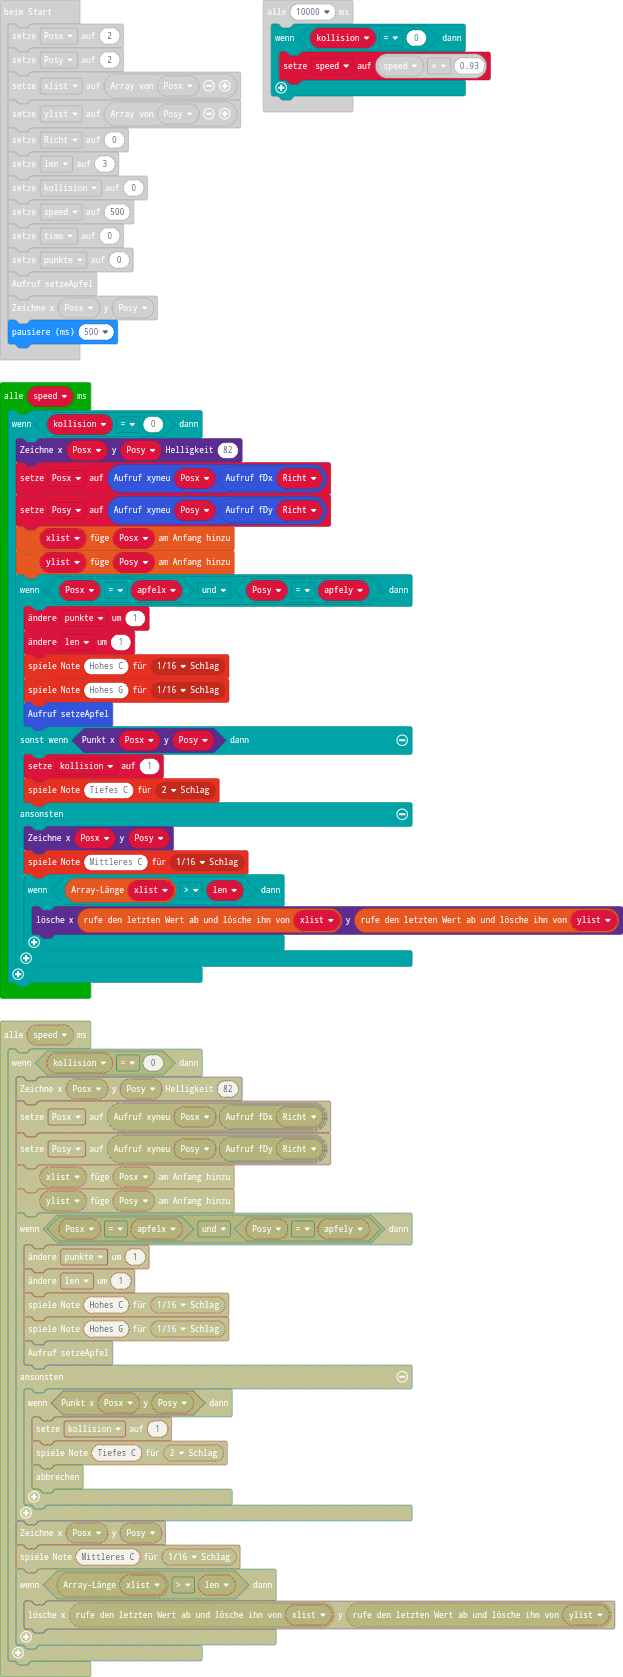
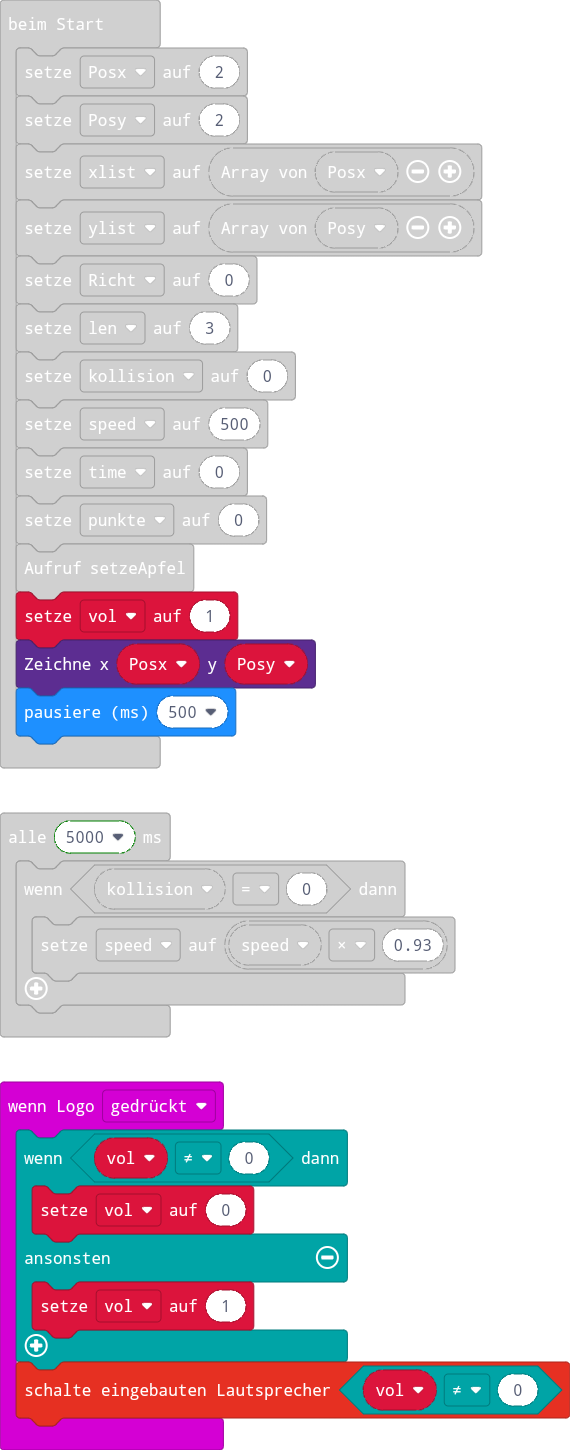
Aktualisiere main.blocks, main.ts

diff --git a/main.ts b/main.ts
@@ -1,3 +1,11 @@
+input.onLogoEvent(TouchButtonEvent.Pressed, function () {
+    if (vol != 0) {
+        vol = 0
+    } else {
+        vol = 1
+    }
+    music.setBuiltInSpeakerEnabled(vol != 0)
+})
 function setzeApfel () {
     while (true) {
         apfelx = randint(0, 4)
@@ -64,6 +72,7 @@ function xyneu (xyalt: number, Dxy: number) {
 let Erg = 0
 let apfely = 0
 let apfelx = 0
+let vol = 0
 let Richt = 0
 let Posy = 0
 let Posx = 0
@@ -78,16 +87,12 @@ let speed = 500
 let time = 0
 let punkte = 0
 setzeApfel()
+vol = 1
 led.plot(Posx, Posy)
 basic.pause(500)
 loops.everyInterval(1000, function () {
     if (kollision == 0) {
         time += 1
-    }
-})
-loops.everyInterval(10000, function () {
-    if (kollision == 0) {
-        speed = speed * 0.93
     }
 })
 loops.everyInterval(50, function () {
@@ -126,5 +131,10 @@ loops.everyInterval(speed, function () {
                 led.unplot(xlist.pop(), ylist.pop())
             }
         }
+    }
+})
+loops.everyInterval(5000, function () {
+    if (kollision == 0) {
+        speed = speed * 0.93
     }
 })
